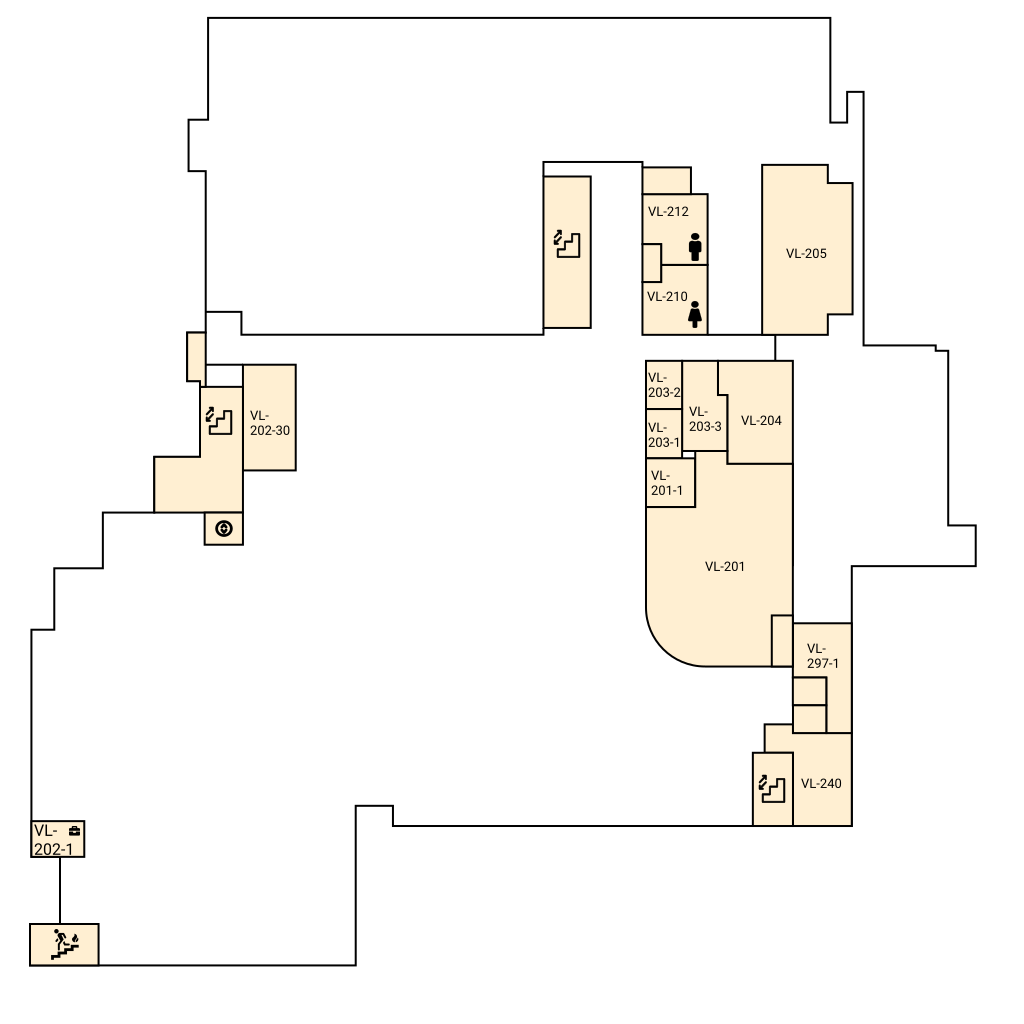
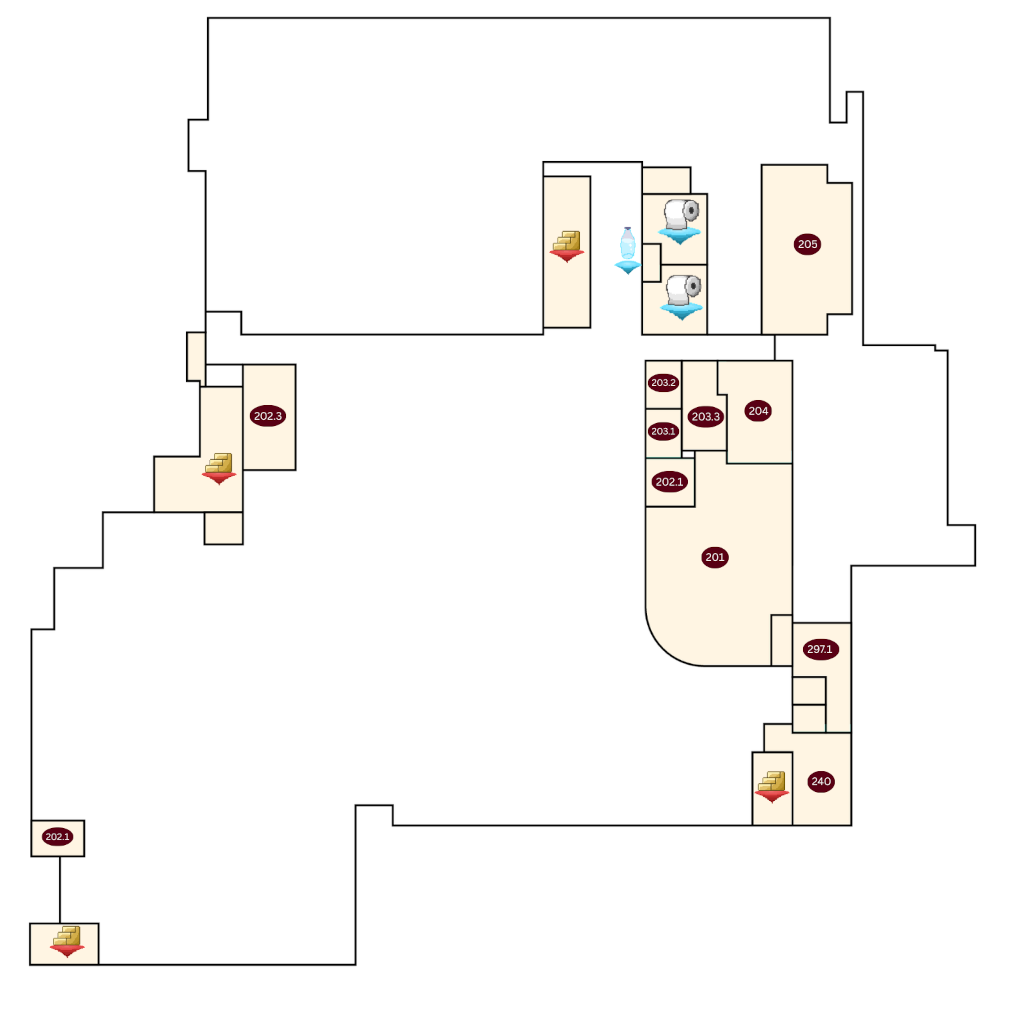
added pngs with pois and fixed the nodes and labels bug

diff --git a/main/components/indoors/IndoorMapViewer.tsx b/main/components/indoors/IndoorMapViewer.tsx
@@ -7,7 +7,7 @@ import {
   Image,
   ImageSourcePropType,
 } from "react-native";
-import Svg, { Polyline, Circle, Text as SvgText } from "react-native-svg";
+import Svg, { Polyline } from "react-native-svg";
 import { IndoorEdge, IndoorNode } from "./types";
 import { INDOOR_LAYOUT } from "./indoor.constants";
 import {
@@ -41,7 +41,6 @@ export default function IndoorMapViewer({
   const { width, height } = useWindowDimensions();
   const availableHeight = height - INDOOR_LAYOUT.AVAILABLE_HEIGHT_OFFSET;
 
-  // State to store the actual image dimensions
   const [imgSize, setImgSize] = useState({ w: 1, h: 1 });
 
   useEffect(() => {
@@ -61,7 +60,6 @@ export default function IndoorMapViewer({
     }
   }, [imageSource]);
 
-  // Calculate the actual scale and offsets used by "contain"
   const layoutInfo = useMemo(() => {
     const containerRatio = width / availableHeight;
     const imageRatio = imgSize.w / imgSize.h;
@@ -69,13 +67,11 @@ export default function IndoorMapViewer({
     let renderedWidth, renderedHeight, offsetX, offsetY;
 
     if (imageRatio > containerRatio) {
-      // Image is wider than container ratio (Width-constrained)
       renderedWidth = width;
       renderedHeight = width / imageRatio;
       offsetX = 0;
       offsetY = (availableHeight - renderedHeight) / 2;
     } else {
-      // Image is taller than container ratio (Height-constrained)
       renderedWidth = availableHeight * imageRatio;
       renderedHeight = availableHeight;
       offsetX = (width - renderedWidth) / 2;
@@ -87,7 +83,6 @@ export default function IndoorMapViewer({
     return { scale, offsetX, offsetY, renderedWidth, renderedHeight };
   }, [imgSize, width, availableHeight]);
 
-  // Gesture State
   const scale = useSharedValue(1);
   const savedScale = useSharedValue(1);
   const translateX = useSharedValue(0);
@@ -158,14 +153,12 @@ export default function IndoorMapViewer({
               { width, height: availableHeight },
             ]}
           >
-            {/* The Floor Plan Image */}
             <AnimatedImage
               source={imageSource}
               style={[styles.image, { width, height: availableHeight }]}
               resizeMode="contain"
             />
 
-            {/* SVG Overlay centered on the image pixels */}
             <View
               style={{
                 position: "absolute",
@@ -189,55 +182,6 @@ export default function IndoorMapViewer({
                     strokeLinejoin="round"
                   />
                 )}
-                {/* Uncomment the following block to display the edges */}
-                {/*
-                {edges.map((edge, index) => {
-                  const startNode = nodes.find((n) => n.id === edge.source);
-                  const endNode = nodes.find((n) => n.id === edge.target);
-                  if (!startNode || !endNode) return null;
-
-                  return (
-                    <Line
-                      key={`edge-${index}`}
-                      x1={startNode.x * layoutInfo.scale}
-                      y1={startNode.y * layoutInfo.scale}
-                      x2={endNode.x * layoutInfo.scale}
-                      y2={endNode.y * layoutInfo.scale}
-                      stroke={edge.accessible ? "#2563eb" : "#999"}
-                      strokeWidth="2"
-                      strokeOpacity={0.6}
-                    />
-                  );
-                })}
-                */}
-
-                {nodes.map((node) => {
-                  let color = "#16a34a";
-                  if (node.type === "room") color = "#dc2626";
-                  if (node.type?.includes("door")) color = "#f59e0b";
-
-                  return (
-                    <React.Fragment key={node.id}>
-                      <Circle
-                        cx={node.x * layoutInfo.scale}
-                        cy={node.y * layoutInfo.scale}
-                        r="4"
-                        fill={color}
-                      />
-                      {node.label && (
-                        <SvgText
-                          x={node.x * layoutInfo.scale + 6}
-                          y={node.y * layoutInfo.scale - 6}
-                          fontSize="10"
-                          fill="#333"
-                          fontWeight="bold"
-                        >
-                          {node.label}
-                        </SvgText>
-                      )}
-                    </React.Fragment>
-                  );
-                })}
               </Svg>
             </View>
           </AnimatedView>
